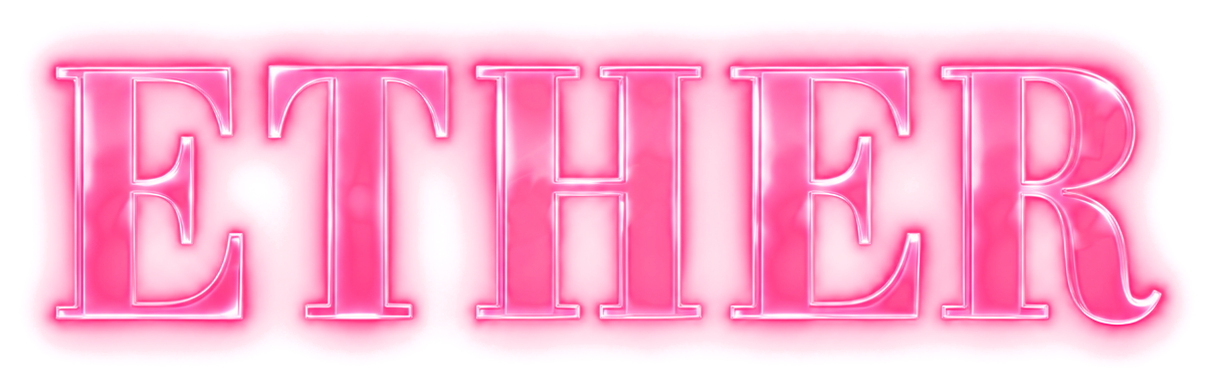
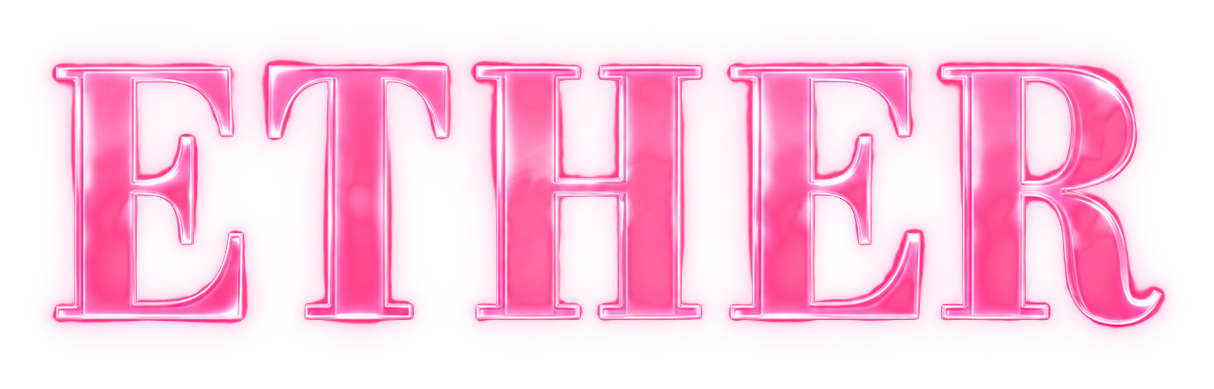
Put the neon wordmark straight on the page in both modes.
Remove the ink band. Re-key the glow so it fades pink to clear on cream, and keep the splash on the original cutout.

diff --git a/src/components/landing/LandingFooter.tsx b/src/components/landing/LandingFooter.tsx
@@ -29,7 +29,7 @@ const columns = [
 
 export function LandingFooter() {
   return (
-    <footer className="border-t border-border pt-12">
+    <footer className="border-t border-border py-12">
       <div className="container px-4 sm:px-6 lg:px-8">
         <div className="grid grid-cols-2 md:grid-cols-3 gap-8 mb-12">
           {columns.map((column) => (
@@ -48,11 +48,9 @@ export function LandingFooter() {
           ))}
         </div>
 
-      </div>
-      <div className="ether-ink-band">
-        <div className="flex w-full max-w-6xl flex-col items-start justify-between gap-4 md:flex-row md:items-center">
+        <div className="flex flex-col items-start justify-between gap-4 border-t border-border pt-8 md:flex-row md:items-center">
           <EtherWordmark className="h-8" />
-          <p className="text-sm text-[hsl(var(--bone))]">© 2026 etherbylcove</p>
+          <p className="text-sm text-muted-foreground">© 2026 etherbylcove</p>
         </div>
       </div>
     </footer>

diff --git a/src/components/brand/EtherSplash.tsx b/src/components/brand/EtherSplash.tsx
@@ -1,7 +1,7 @@
 import { useEffect, useState } from "react";
 import { Capacitor } from "@capacitor/core";
 import { SplashScreen } from "@capacitor/splash-screen";
-import { EtherWordmark } from "@/components/brand/EtherWordmark";
+import wordmark from "@/assets/ether-wordmark-splash.png";
 import { POWER_MS, REDUCED_MS, splashFrame, type SplashFrame } from "@/lib/etherSplash";
 import { shotSessionEnabled } from "@/lib/shotSession";
 
@@ -60,9 +60,10 @@ export function EtherSplash() {
       role="img"
       aria-label="Ether"
     >
-      <EtherWordmark
+      <img
+        src={wordmark}
         alt=""
-        className="w-[min(86vw,26rem)]"
+        className="block h-auto w-auto max-w-full object-contain w-[min(86vw,26rem)]"
         style={{ opacity: frame.logo, filter: `brightness(${frame.brightness})` }}
       />
     </div>

diff --git a/src/components/landing/LandingHero.tsx b/src/components/landing/LandingHero.tsx
@@ -10,11 +10,7 @@ export function LandingHero() {
     <section className="relative pb-10 pt-8">
       <div className="mx-auto flex max-w-md flex-col items-center px-4 text-center sm:px-6">
         <p className="kicker mb-8">Familcy access // Lcove signal</p>
-      </div>
-      <div className="ether-ink-band mb-6">
-        <EtherWordmark className="w-[18rem] max-w-full" />
-      </div>
-      <div className="mx-auto flex max-w-md flex-col items-center px-4 text-center sm:px-6">
+        <EtherWordmark className="mb-6 w-[18rem] max-w-full" />
         <h1 className="ether-title mb-4 max-w-[16ch] text-[38px] leading-[0.95]">
           THE CULTURE OF ASPIRATIONS
         </h1>

diff --git a/src/index.css b/src/index.css
@@ -701,18 +701,6 @@
   filter: drop-shadow(0 6px 14px rgba(60, 40, 30, 0.28));
 }
 
-/* Neon wordmark sits on a full-bleed ink band so it never lands on cream. */
-.ether-ink-band {
-  display: flex;
-  justify-content: center;
-  box-sizing: border-box;
-  width: 100vw;
-  max-width: 100vw;
-  margin-left: calc(50% - 50vw);
-  padding: 1.35rem 1.25rem;
-  background: #08080a;
-}
-
 .novi-peek {
   position: absolute;
   right: 0;

diff --git a/src/pages/Auth.tsx b/src/pages/Auth.tsx
@@ -393,9 +393,7 @@ const Auth = () => {
             transition={{ delay: 0.1 }}
             className="mb-4"
           >
-            <div className="ether-ink-band">
-              <EtherWordmark className="w-[16rem] max-w-full" />
-            </div>
+            <EtherWordmark className="mx-auto w-[16rem] max-w-full" />
           </motion.div>
           {getTitle() ? (
           <motion.h1 

diff --git a/src/components/home/HeroSection.tsx b/src/components/home/HeroSection.tsx
@@ -29,9 +29,7 @@ const HeroSection = () => {
           transition={{ duration: 0.6 }}
           className="mb-4 sm:mb-6"
         >
-          <div className="ether-ink-band">
-            <EtherWordmark className="w-[20rem] max-w-full" />
-          </div>
+          <EtherWordmark className="w-[20rem] max-w-full" />
         </motion.div>
 
         {/* Badge */}
